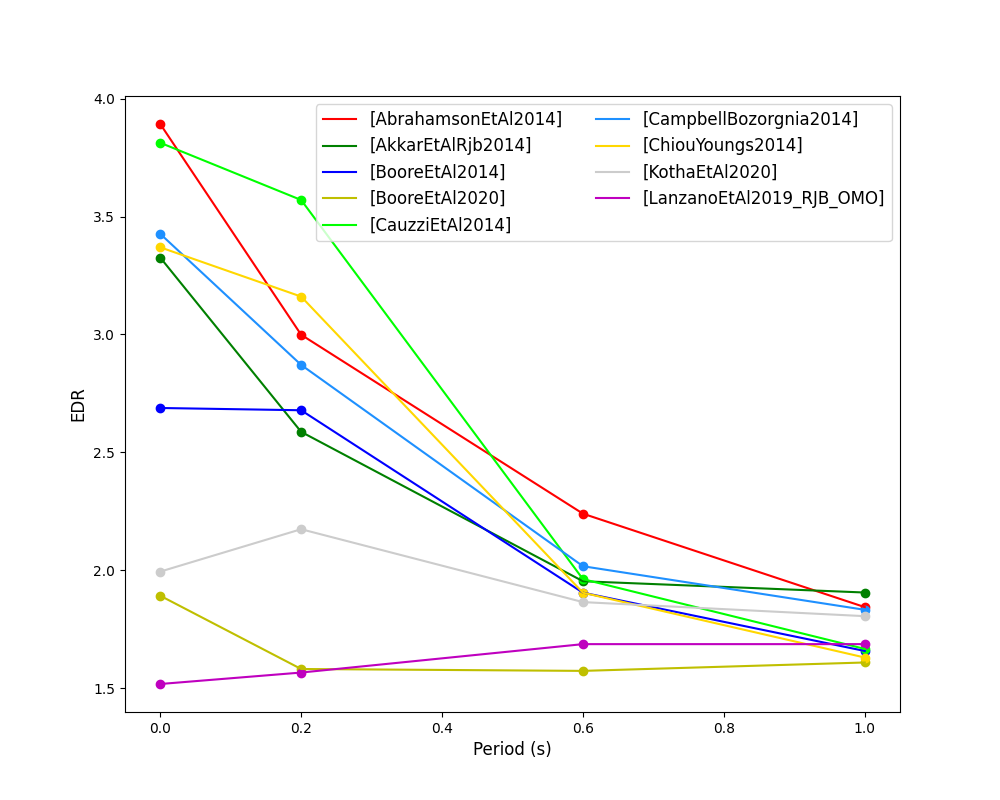
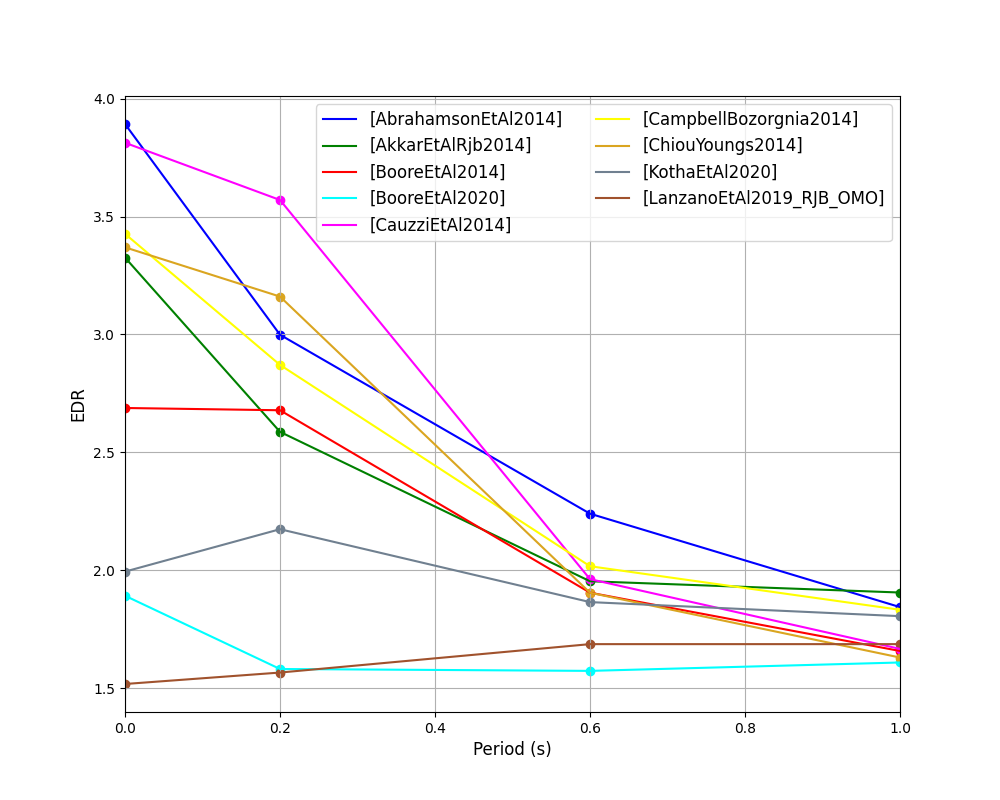
add grids

diff --git a/openquake/smt/residuals/residual_plotter.py b/openquake/smt/residuals/residual_plotter.py
@@ -160,6 +160,7 @@ class BaseResidualPlot(object):
         principle not be overridden by sub-classes.
         """
         self.draw(ax, res_data, res_type)
+        ax.grid()
         ax.set_xlim(*self.get_axis_xlim(res_data, res_type))
         ax.set_ylim(*self.get_axis_ylim(res_data, res_type))
         ax.set_xlabel(res_data['xlabel'], **self.xlabel_styling_kwargs)
@@ -273,8 +274,7 @@ class ResidualHistogramPlot(BaseResidualPlot):
     def draw(self, ax, res_data, res_type):
         bin_width = self.bin_width
         x, y = res_data['x'], res_data['y']
-        ax.bar(x, y, width=0.95 * bin_width,
-               color="LightSteelBlue", edgecolor="k")
+        ax.bar(x, y, width=0.95 * bin_width, color="LightSteelBlue", edgecolor="k")
 
 
 class ResidualPlot(ResidualHistogramPlot):
@@ -353,12 +353,10 @@ class ResidualScatterPlot(BaseResidualPlot):
         return nrow, ncol
 
     def get_axis_xlim(self, res_data, res_type):
-        x = res_data['x']
-        return floor(np.min(x)), ceil(np.max(x))
+        return floor(np.min(res_data['x'])), ceil(np.max(res_data['x']))
 
     def get_axis_ylim(self, res_data, res_type):
-        y = res_data['y']
-        max_lim = ceil(np.nanmax(np.fabs(y)))
+        max_lim = ceil(np.nanmax(np.fabs(res_data['y'])))
         return -max_lim, max_lim
     
     def get_axis_title(self, res_data, res_type):
@@ -368,8 +366,6 @@ class ResidualScatterPlot(BaseResidualPlot):
 
     def draw(self, ax, res_data, res_type):
         x, y = res_data['x'], res_data['y']
-        x_zero = np.arange(np.floor(np.nanmin(x))-20, np.ceil(np.nanmax(x))+20, 0.001)
-        zero_line = np.zeros(len(x_zero))
         pts_styling_kwargs = dict(
             markeredgecolor='Gray', markerfacecolor='LightSteelBlue', label='residual')
         
@@ -379,30 +375,23 @@ class ResidualScatterPlot(BaseResidualPlot):
             ax.scatter(res_data['bin_midpoints'],res_data['mean_res'],
                        marker='s', color='b', label='mean', zorder=4)
             
-            ax.scatter(res_data['bin_midpoints'],res_data['mean_res'] + (
-                -1*res_data['sigma_res']), marker='x', color='b', zorder=4)
+            ax.scatter(res_data['bin_midpoints'],res_data['mean_res'] + (-1*res_data['sigma_res']),
+                       marker='x', color='b', zorder=4)
             
-            ax.scatter(res_data['bin_midpoints'],res_data['mean_res'] + (
-                res_data['sigma_res']), marker='x', color='b',
-                label='+/- 1 Std.', zorder=4)
+            ax.scatter(res_data['bin_midpoints'],res_data['mean_res'] + (res_data['sigma_res']),
+                       marker='x', color='b', label='+/- 1 Std.', zorder=4)
             
-            ax.plot(x_zero, zero_line, color='k', linestyle='--',
-                    linewidth=1.25)
         else:
             ax.plot(x, y, 'o', **pts_styling_kwargs)
             
             ax.scatter(res_data['bin_midpoints'],res_data['mean_res'],
                        marker='s', color='b', label='mean', zorder=4)
         
-            ax.scatter(res_data['bin_midpoints'],res_data['mean_res'] + (
-                -1*res_data['sigma_res']), marker='x', color='b', zorder=4)
+            ax.scatter(res_data['bin_midpoints'],res_data['mean_res'] + (-1*res_data['sigma_res']),
+                       marker='x', color='b', zorder=4)
         
-            ax.scatter(res_data['bin_midpoints'],res_data['mean_res'] + (
-                res_data['sigma_res']), marker='x', color='b',
-                label='+/- 1 Std.', zorder=4)
-            
-            ax.plot(x_zero, zero_line, color='k', linestyle='--',
-                    linewidth=1.25)
+            ax.scatter(res_data['bin_midpoints'], res_data['mean_res'] + (res_data['sigma_res']),
+                       marker='x', color='b', label='+/- 1 Std.', zorder=4)
             
         ax.legend(loc='upper right', fontsize='xx-small')
 
@@ -513,9 +502,11 @@ def plot_llh_with_period(residuals, filename):
         ax_llh.scatter(x_llh.imt_float, y_llh)
         tmp = str(residuals.gmpe_list[gmpe]).split('(')[0]
         ax_llh.plot(x_llh.imt_float, y_llh, label=tmp)
+    ax_llh.margins(x=0)
     ax_llh.set_xlabel('Period (s)', fontsize='12')
     ax_llh.set_ylabel('LLH', fontsize='12')
     ax_llh.legend(loc='upper right', ncol=2, fontsize='12')
+    ax_llh.grid()
     plt.savefig(filename)
     plt.close()
     
@@ -549,9 +540,11 @@ def plot_edr_with_period(residuals, filename):
         tmp = str(residuals.gmpe_list[gmpe]).split('(')[0]
         ax_EDR.scatter(x_with_imt.imt_float, y_EDR)
         ax_EDR.plot(x_with_imt.imt_float, y_EDR, label=tmp)
+    ax_EDR.margins(x=0)
     ax_EDR.set_xlabel('Period (s)', fontsize='12')
     ax_EDR.set_ylabel('EDR', fontsize='12')
     ax_EDR.legend(loc = 'upper right', ncol=2, fontsize=12)
+    ax_EDR.grid()
     parts = filename.split(".")
     plt.savefig(parts[0] + "_value." + parts[1])
     plt.close()
@@ -566,9 +559,11 @@ def plot_edr_with_period(residuals, filename):
         tmp = str(residuals.gmpe_list[gmpe]).split('(')[0]
         ax_kappa.scatter(x_with_imt.imt_float, y_kappa)
         ax_kappa.plot(x_with_imt.imt_float, y_kappa, label=tmp)
+    ax_kappa.margins(x=0)
     ax_kappa.set_xlabel('Period (s)', fontsize='12')
     ax_kappa.set_ylabel('sqrt(k)', fontsize='12')
     ax_kappa.legend(loc = 'upper right', ncol=2, fontsize=12)
+    ax_kappa.grid()
     plt.savefig(parts[0] + "_kappa." + parts[1])
     plt.close()
 
@@ -582,9 +577,11 @@ def plot_edr_with_period(residuals, filename):
         tmp = str(residuals.gmpe_list[gmpe]).split('(')[0]
         ax_MDE.scatter(x_with_imt.imt_float, y_MDE)
         ax_MDE.plot(x_with_imt.imt_float, y_MDE, label=tmp)
+    ax_MDE.margins(x=0)
     ax_MDE.set_xlabel('Period (s)', fontsize='12')
     ax_MDE.set_ylabel('MDE Norm', fontsize='12')
     ax_MDE.legend(loc = 'upper right', ncol=2, fontsize=12)
+    ax_MDE.grid()
     plt.savefig(parts[0] + "_MDE." + parts[1])
     plt.close()
 
@@ -618,9 +615,11 @@ def plot_sto_with_period(residuals, filename):
         tmp = str(residuals.gmpe_list[gmpe]).split('(')[0]
         ax_sto.scatter(x_with_imt.imt_float, y_sto)
         ax_sto.plot(x_with_imt.imt_float, y_sto, label=tmp)
+    ax_sto.margins(x=0)
     ax_sto.set_xlabel('Period (s)', fontsize='12')
     ax_sto.set_ylabel('Stochastic Area', fontsize='12')
     ax_sto.legend(loc='upper right', ncol=2, fontsize=12)
+    ax_sto.grid()
     plt.savefig(os.path.join(filename))
     plt.close()
 

diff --git a/openquake/smt/comparison/utils_compare_gmpes.py b/openquake/smt/comparison/utils_compare_gmpes.py
@@ -471,7 +471,7 @@ def plot_spectra_util(config, output_directory, obs_spectra_fname, obs_data_fnam
             # Add grid and set xlims
             ax.set_xlim(min(periods), max(periods))
             ax.grid(True)
-            if config.nstd > 0:
+            if config.nstd > 0 or subset is not None:
                 ax.semilogy()
 
     # Finalise the plots and save fig

diff --git a/docsrc/contents/smt.rst b/docsrc/contents/smt.rst
@@ -588,6 +588,7 @@ Comparing GMPEs
     Some examples of how the ModifiableGMPE can be used within the comparison module input ``.toml`` when specifying GMPEs is provided below. Note that ModifiableGMPE is not currently supported to be usable within the residuals input ``.toml`` (an error will be raised):
    
     .. code-block:: ini
+
         [models]
 
         [models.0-ModifiableGMPE]
@@ -678,6 +679,7 @@ Comparing GMPEs
    measure then an error is raised as within a "regular" GMPE).
 
     .. code-block:: ini
+
         [models]
 
         [models.0-ModifiableGMPE] # Base GMPE and conditional GMPE both with multiple inputs
@@ -704,6 +706,7 @@ Comparing GMPEs
    is raised as within a "regular" GMPE).
 
     .. code-block:: ini
+      
         [models]
 
         [models.0-ModifiableGMPE]
